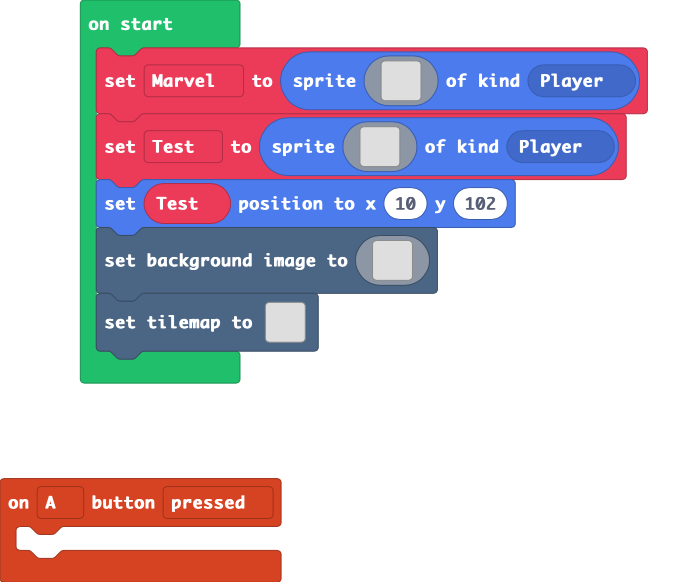
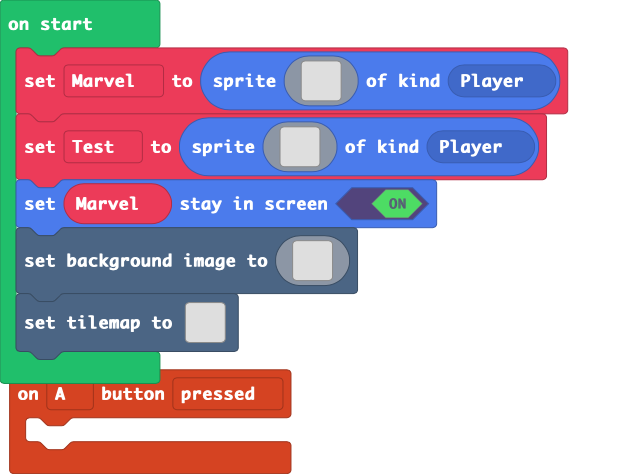
Update main.blocks, main.ts, tilemap.g.jres, tilemap.g.ts

diff --git a/tilemap.g.ts b/tilemap.g.ts
@@ -24,6 +24,25 @@ namespace myTiles {
 .................2.........22...222.2222
 .....................2222..22...222.2222
 `, [myTiles.transparency16,sprites.builtin.forestTiles17,sprites.builtin.forestTiles18,sprites.builtin.forestTiles19,sprites.builtin.forestTiles8,sprites.builtin.forestTiles5,sprites.builtin.forestTiles6,sprites.builtin.forestTiles9,sprites.builtin.forestTiles13,sprites.builtin.forestTiles7,sprites.builtin.forestTiles11,sprites.builtin.forestTiles10,sprites.dungeon.chestClosed,sprites.builtin.forestTiles14,sprites.dungeon.purpleOuterNorth0,sprites.dungeon.purpleOuterNorth1,sprites.dungeon.purpleOuterNorthEast,sprites.dungeon.purpleOuterEast0,sprites.dungeon.purpleOuterNorthWest,sprites.dungeon.purpleOuterWest0,sprites.dungeon.purpleOuterSouthEast,sprites.dungeon.purpleInnerNorthEast,sprites.dungeon.purpleInnerNorthWest,sprites.dungeon.purpleInnerSouthEast,sprites.dungeon.purpleInnerSouthWest,sprites.dungeon.purpleOuterSouth0,sprites.dungeon.purpleOuterSouthWest,sprites.builtin.forestTiles24,sprites.builtin.forestTiles29,sprites.swamp.swampTile0,sprites.swamp.swampTile1,sprites.swamp.swampTile2,sprites.builtin.forestTiles1,sprites.builtin.forestTiles2,sprites.builtin.forestTiles4,sprites.builtin.forestTiles3], TileScale.Sixteen);
+            case "level2":
+            case "level2":return tiles.createTilemap(hex`1000100000000000000000000000000000000000000000000000000000000000000000000000000000000000000000000000000000000000000000000000000000000000000000000000000000000000000000000000000000000000000000000000000000000000000000000000000000000000000000000000000000000000000000000000000000000000000000000000000000000000000000000000000000000000000000000000000000000000000000000000000000000000000000000000000000000000000000000000000000000000000000000000000000000000000000000000000000000000000000000000000000000000000000000000000000000000`, img`
+. . . . . . . . . . . . . . . . 
+. . . . . . . . . . . . . . . . 
+. . . . . . . . . . . . . . . . 
+. . . . . . . . . . . . . . . . 
+. . . . . . . . . . . . . . . . 
+. . . . . . . . . . . . . . . . 
+. . . . . . . . . . . . . . . . 
+. . . . . . . . . . . . . . . . 
+. . . . . . . . . . . . . . . . 
+. . . . . . . . . . . . . . . . 
+. . . . . . . . . . . . . . . . 
+. . . . . . . . . . . . . . . . 
+. . . . . . . . . . . . . . . . 
+. . . . . . . . . . . . . . . . 
+. . . . . . . . . . . . . . . . 
+. . . . . . . . . . . . . . . . 
+`, [myTiles.transparency16], TileScale.Sixteen);
         }
         return null;
     })

diff --git a/main.ts b/main.ts
@@ -37,7 +37,7 @@ let Test = sprites.create(img`
     . . . . f f d 1 d 1 d 1 f f . . 
     . . . . . . f f b b f f . . . . 
     `, SpriteKind.Player)
-Test.setPosition(10, 102)
+Marvel.setStayInScreen(true)
 scene.setBackgroundImage(img`
     9999999999999999999999999999999999999999999999999999999999999999999999999999999999999999999999999999999999999999999999999999999999999999999999999999999999999999
     9999999999999999999999999999999999999999999999999999111111111119999999999999999999999999999999999999991111999999999999999999999999999999999999999999111111111111
